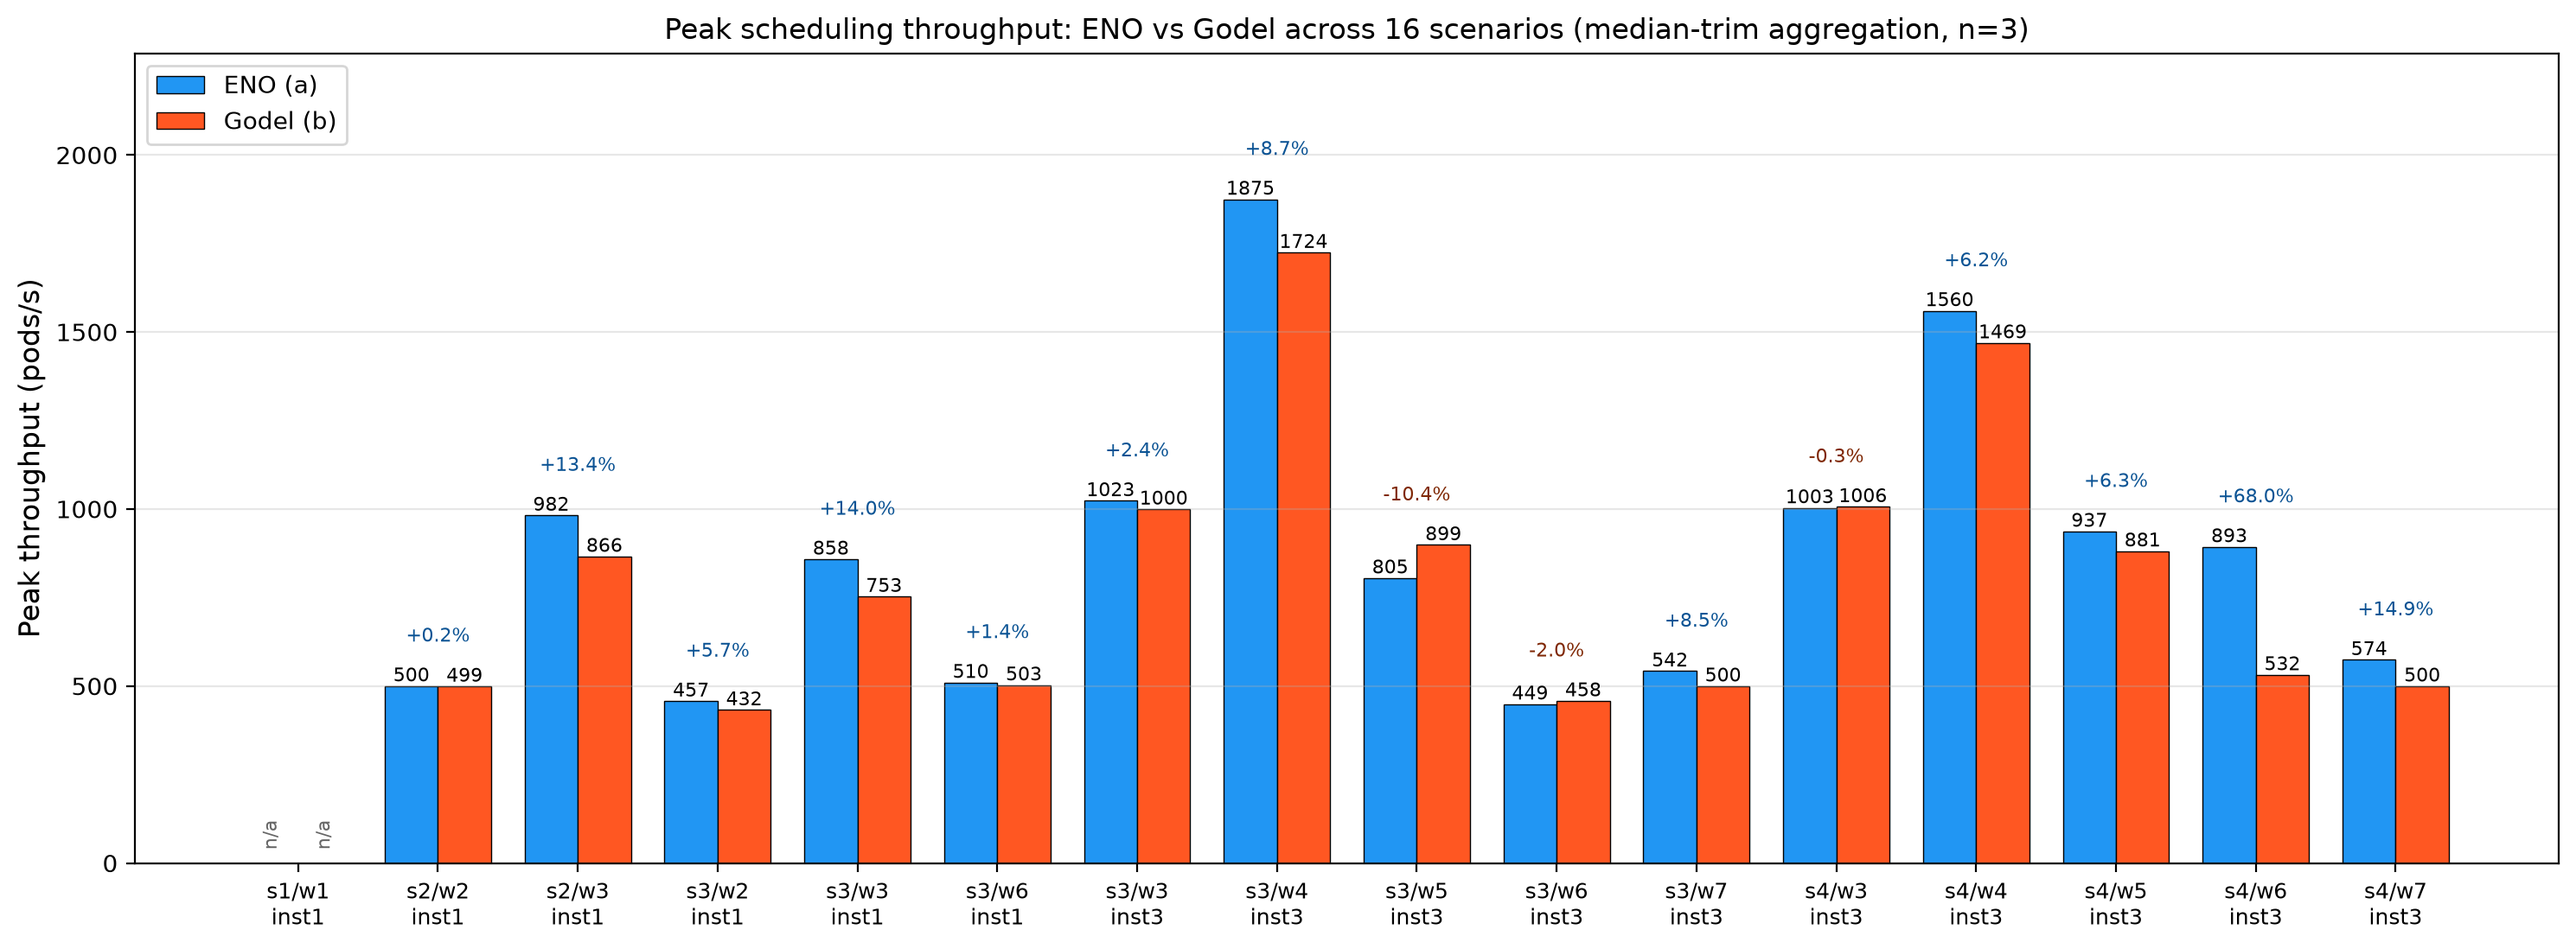
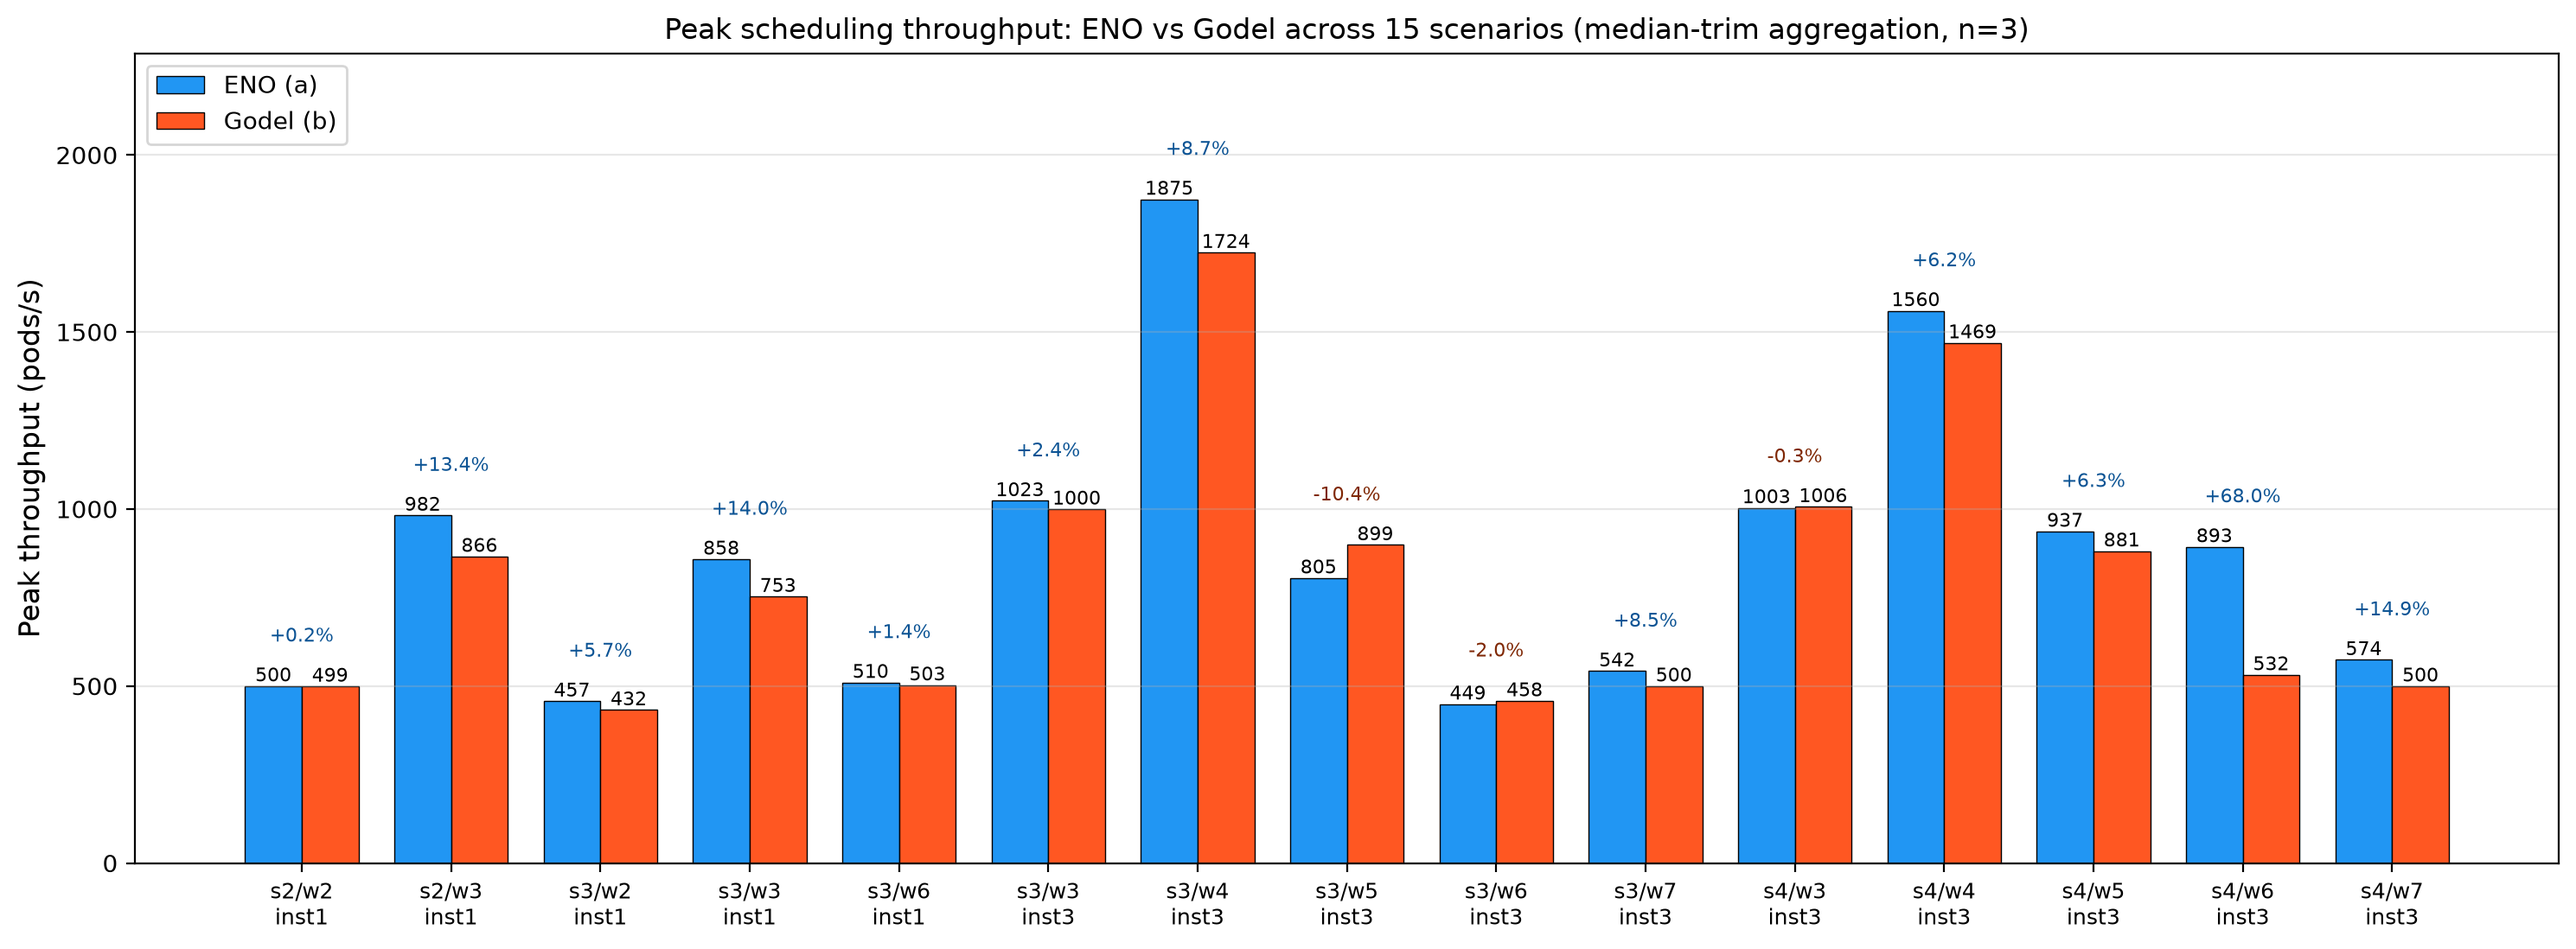
docs(ch6): drop empty s1/w1 slot from fig 6-19 peak throughput chart
Removing s1/w1 from the scenario list gives the plot 15 valid columns
instead of 14 columns plus a wasted n/a placeholder. The exclusion is
retained in prose: 6.4 line 165 now says "16 中 s1/w1 因单次 run 过短
剔除首尾后无有效采样, 不参与该指标对比" so the reader still learns
which scenario is missing.

diff --git a/test/e2e/benchmark/collect/gen-peak-throughput-bar.py b/test/e2e/benchmark/collect/gen-peak-throughput-bar.py
@@ -34,13 +34,12 @@ _HERE = Path(__file__).resolve()
 RESULTS = _HERE.parent.parent / "results"
 FIGURES = _HERE.parents[4] / "docs" / "thesis" / "figures"
 
-# (label_for_x_axis, path_suffix under results/{group}) — all 16 compare
-# scenarios listed under results/compare/, in natural (scale, workload, inst)
-# order. Scenarios with no valid peak-throughput samples after 6.3 trim
-# are rendered as zero-height bars with "n/a" markers so the reader can
-# see the coverage matrix at a glance.
+# (label_for_x_axis, path_suffix under results/{group}) — 15 of the 16
+# compare scenarios; s1/w1 is excluded because its single-run duration is
+# shorter than the trim window and produces no valid peak-throughput
+# sample under the 6.3 median-trim convention. The exclusion is noted
+# in the figure caption in 6.4.
 SCENARIOS = [
-    ("s1/w1\ninst1",     "s1/w1/inst1"),
     ("s2/w2\ninst1",     "s2/w2/inst1"),
     ("s2/w3\ninst1",     "s2/w3/inst1"),
     ("s3/w2\ninst1",     "s3/w2/inst1"),

diff --git a/docs/thesis/chapters/06-evaluation.md b/docs/thesis/chapters/06-evaluation.md
@@ -162,9 +162,9 @@ s2、s3 与 s4 覆盖了从中等到超大规模的集群场景（跨度 10×）
 
 结论：在全部 16 个场景中，ENO 的有效吞吐在 14 个场景高于 Gödel、2 个场景持平（s1/w1 与 s4/w7，差异为 0.0%），提升幅度为 +2.0%~+22.9%，平均 +11.9%。所有场景的调度完成率均为 100%，说明差异来自完成时间而非完成度。提升在高负载与多实例配置下最为明显：s2/w3 为 22.9%，s3/w3（inst3）为 21.7%，s3/w5（inst3）与 s3/w7（inst3）分别为 21.3% 与 21.2%。Gang 场景（w6）的提升为 4.3%~19.1%，低于按 10 000 Pod 规模采集时的旧值，原因见 6.5.3 节。低负载场景（s1/w1、s2/w2）两者接近，原因是负载未使调度器饱和，完成时间主要由负载注入速率决定。
 
-若以峰值吞吐（`scheduling_peak_throughput`）衡量，ENO 在多数场景同样领先。图 6-19 汇总了全部 16 个对比场景的峰值吞吐（s1/w1 单次 run 过短、剔除首尾后无有效采样，标为 n/a；其余 15 个场景均有数据）。ENO 领先的场景 12 个，提升幅度为 0.2%~68.0%，其中 s4/w6（inst3）达 +68.0%（893.2 对 531.6 pods/s）、s4/w7（inst3）+14.9%、s2/w3 +13.4%、s3/w3（inst1）+14.0%；Gödel 略领先的场景 2 个：s3/w5（inst3，-10.4%）与 s3/w6（inst3，-2.0%）；s4/w3（inst3）两者基本持平（-0.3%）。ENO 未在峰值吞吐上一律领先说明其有效吞吐的整体优势并非源自更高的瞬时调度速率，而是来自更快的启动进入稳态与更短的整体完成时间——这一口径差异在 §6.8 第（7）条中作为局限进一步说明。
+若以峰值吞吐（`scheduling_peak_throughput`）衡量，ENO 在多数场景同样领先。图 6-19 汇总了 15 个有效场景的峰值吞吐对比（16 个场景中 s1/w1 因单次 run 过短、剔除首尾后无有效采样，不参与该指标对比）。ENO 领先的场景 12 个，提升幅度为 0.2%~68.0%，其中 s4/w6（inst3）达 +68.0%（893.2 对 531.6 pods/s）、s4/w7（inst3）+14.9%、s2/w3 +13.4%、s3/w3（inst1）+14.0%；Gödel 略领先的场景 2 个：s3/w5（inst3，-10.4%）与 s3/w6（inst3，-2.0%）；s4/w3（inst3）两者基本持平（-0.3%）。ENO 未在峰值吞吐上一律领先说明其有效吞吐的整体优势并非源自更高的瞬时调度速率，而是来自更快的启动进入稳态与更短的整体完成时间——这一口径差异在 §6.8 第（7）条中作为局限进一步说明。
 
-![图 6-19  ENO 与 Gödel 峰值吞吐 16 场景对比（`scheduling_peak_throughput`，中位数聚合，n=3；s1/w1 无有效采样）](../figures/fig6-19-peak-throughput-a-vs-b-all.png)
+![图 6-19  ENO 与 Gödel 峰值吞吐 15 场景对比（`scheduling_peak_throughput`，中位数聚合，n=3）](../figures/fig6-19-peak-throughput-a-vs-b-all.png)
 
 图 6-3 汇总了五组调度器在序号 1~5（表 6-4 的全组基线场景）上的有效吞吐。
 
